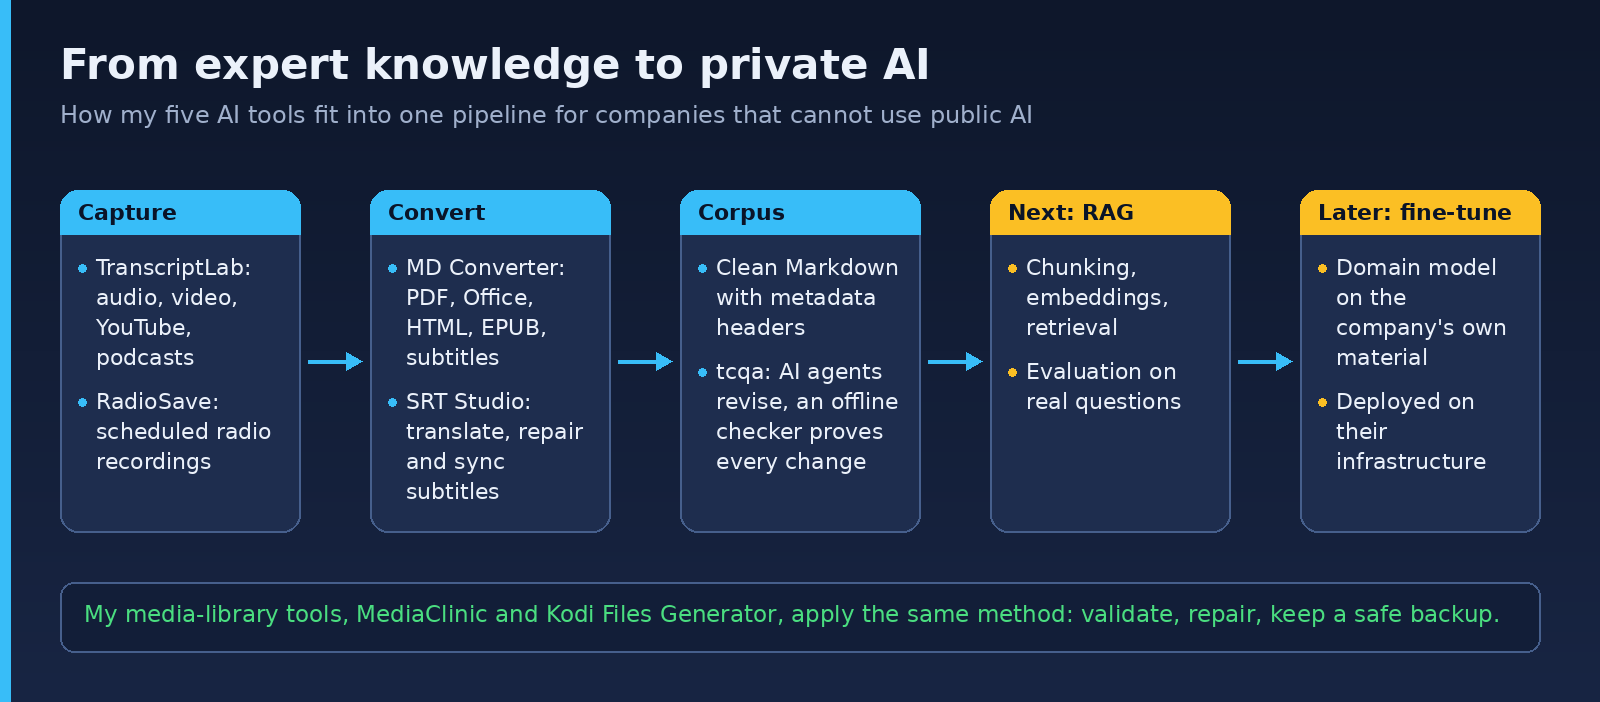
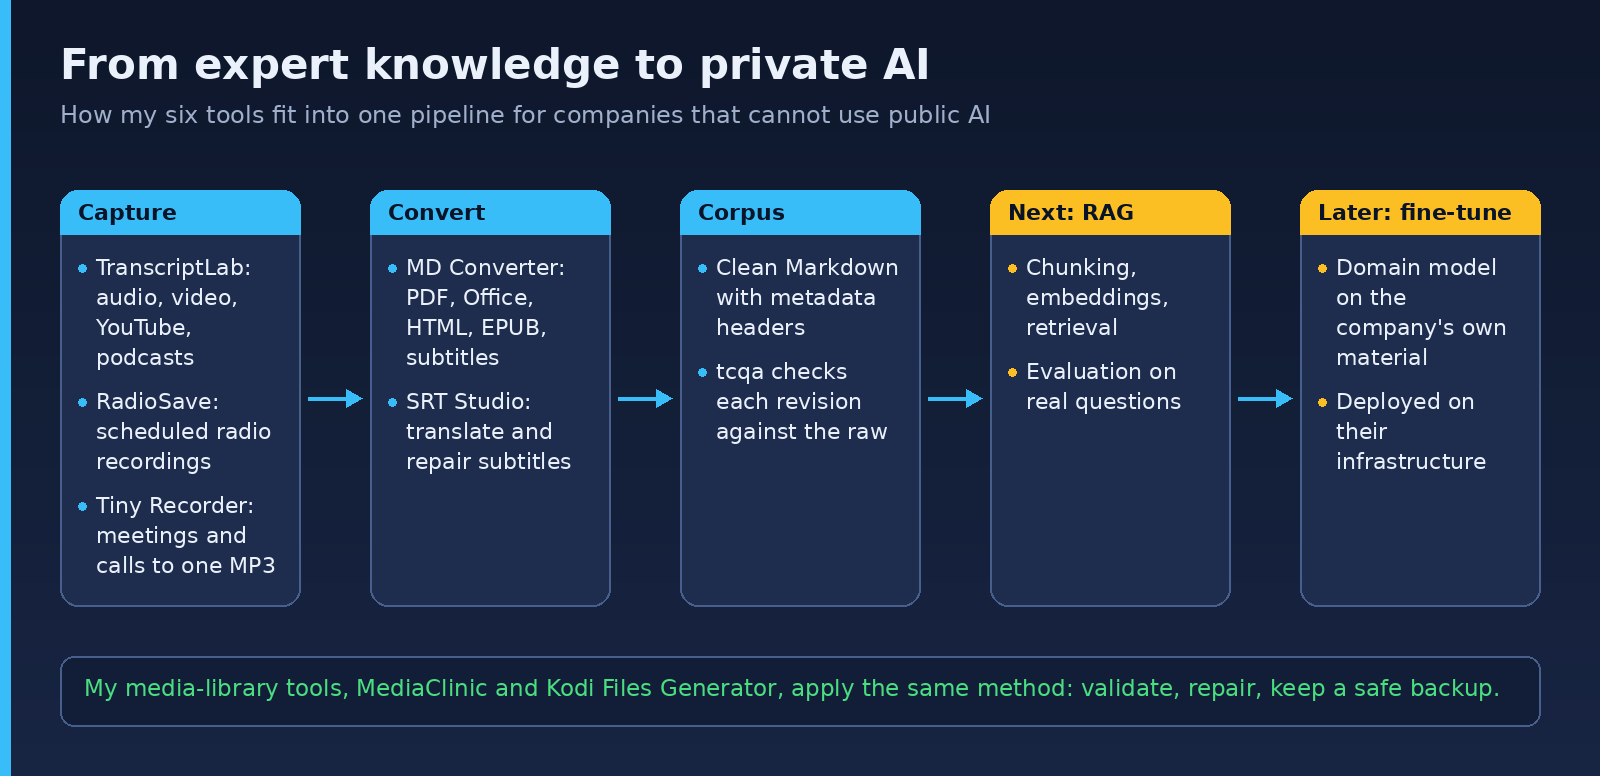
Profile: Tiny Recorder row, pipeline and iterations chart

diff --git a/README.md b/README.md
@@ -23,6 +23,7 @@ All tools were built with Claude (Anthropic) as coding partner. I write the requ
 | [**MD Converter**](https://github.com/junqueirach/md-converter) | PDF/Office/HTML/EPUB, subtitles and more to Markdown with local engines: light ones run in parallel workers, heavy ones (Docling, marker, MinerU, Surya…) in isolated environments with checked installs. Batch queue that survives a restart, quality badges, corpus export. Windows .exe download in Releases, update check built in | ~11.4k lines, 50 versions |
 | [**tcqa**](https://github.com/junqueirach/transcript-corpus-qa) | AI revision of speech-to-text transcripts that can be checked: a Claude Code agent corrects a whole corpus and a second agent re-checks every correction; then an offline checker (no AI) proves each transcript changed only what its log says, before the text enters a RAG or fine-tuning corpus | Agent + checker, 14 checks, 238 tests, CI on Ubuntu and Windows |
 | [**RadioSave**](https://github.com/junqueirach/radiosave) | Scheduled recorder for online radio: captures interviews and author programs unattended, as raw material for the transcript pipeline. Records every station in its own time zone, resumes dropped streams. Windows .exe download in Releases, update check built in | ~8.9k lines, 6 versions |
+| [**Tiny Recorder**](https://github.com/junqueirach/tiny-recorder) | Very light meeting recorder: everything the computer plays and everything you say in one tagged MP3, with no AI and no cloud. Captures meetings and calls as raw material for the transcript pipeline. Windows .exe download in Releases | ~2.6k lines, 4 versions |
 | [**SRT Studio**](https://github.com/junqueirach/srt-studio) | Subtitle translation, repair and sync with Claude (formerly SRT Translator): SRT, ASS/SSA, WebVTT and other text formats, sync to another subtitle or to the video's audio, subtitles taken from MKV/MP4, source check and repair, quality control, live pricing and cost estimates. Windows .exe download in Releases | ~9.3k lines, 14 versions |
 
 <p align="center"><img src="assets/iterations.png" alt="Iteration history" width="700"></p>
@@ -62,7 +63,7 @@ Subtitles are part of the same job: I use [**SRT Studio**](https://github.com/ju
 
 ## Tech
 
-Python · Tkinter · Whisper · MarkItDown · Docling · ffmpeg · yt-dlp · pysubs2 · Claude API · Claude Code agents · Markdown pipelines · RAG concepts · Kodi/Plex NFO and XML metadata · pytest · GitHub Actions CI · PyInstaller Windows builds
+Python · Tkinter · WASAPI audio capture · Whisper · MarkItDown · Docling · ffmpeg · yt-dlp · pysubs2 · Claude API · Claude Code agents · Markdown pipelines · RAG concepts · Kodi/Plex NFO and XML metadata · pytest · GitHub Actions CI · PyInstaller Windows builds
 
 ## Get in touch
 
